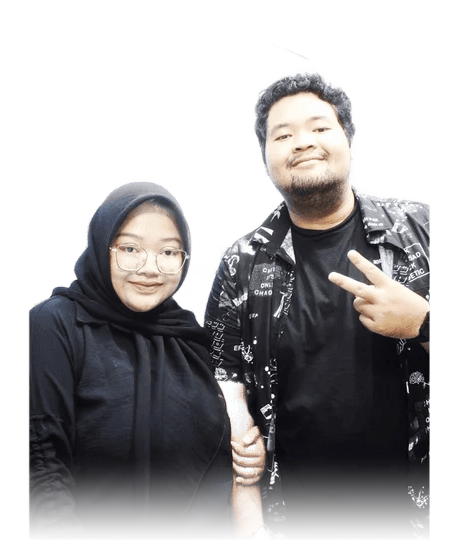
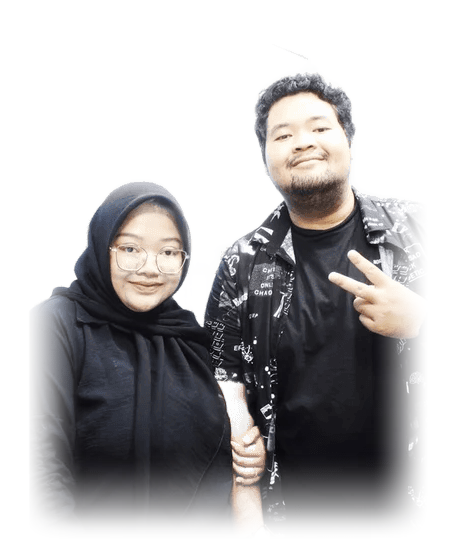
style(hero): flip couple cutout silhouette and add smooth cubic edge feathering to eliminate cut lines

Changed region(s): [[0.84, 0.34, 0.9644, 0.9891], [0.0622, 0.4945, 0.1867, 0.9891]]

diff --git a/src/components/HeroSection.jsx b/src/components/HeroSection.jsx
@@ -73,7 +73,7 @@ export default function HeroSection({ featuredPhotos = [] }) {
         <img
           src="/bg_couple_left.png"
           alt="Aldy &amp; Nada - Kenangan Manis"
-          className="w-full h-auto object-contain opacity-50 drop-shadow-md transform -rotate-4 lg:-rotate-6 origin-bottom-left"
+          className="w-full h-auto object-contain opacity-50 drop-shadow-md transform -rotate-4 lg:-rotate-6 origin-bottom-left [mask-image:linear-gradient(to_top,transparent_0%,black_15%,black_100%)]"
         />
       </div>
 
@@ -81,7 +81,7 @@ export default function HeroSection({ featuredPhotos = [] }) {
         <img
           src="/bg_couple_right.png"
           alt="Aldy &amp; Nada - Momen Berdua"
-          className="w-full h-auto object-contain opacity-50 drop-shadow-md transform rotate-4 lg:rotate-6 origin-bottom-right"
+          className="w-full h-auto object-contain opacity-50 drop-shadow-md transform rotate-4 lg:rotate-6 origin-bottom-right [mask-image:linear-gradient(to_top,transparent_0%,black_15%,black_100%)]"
         />
       </div>
 
